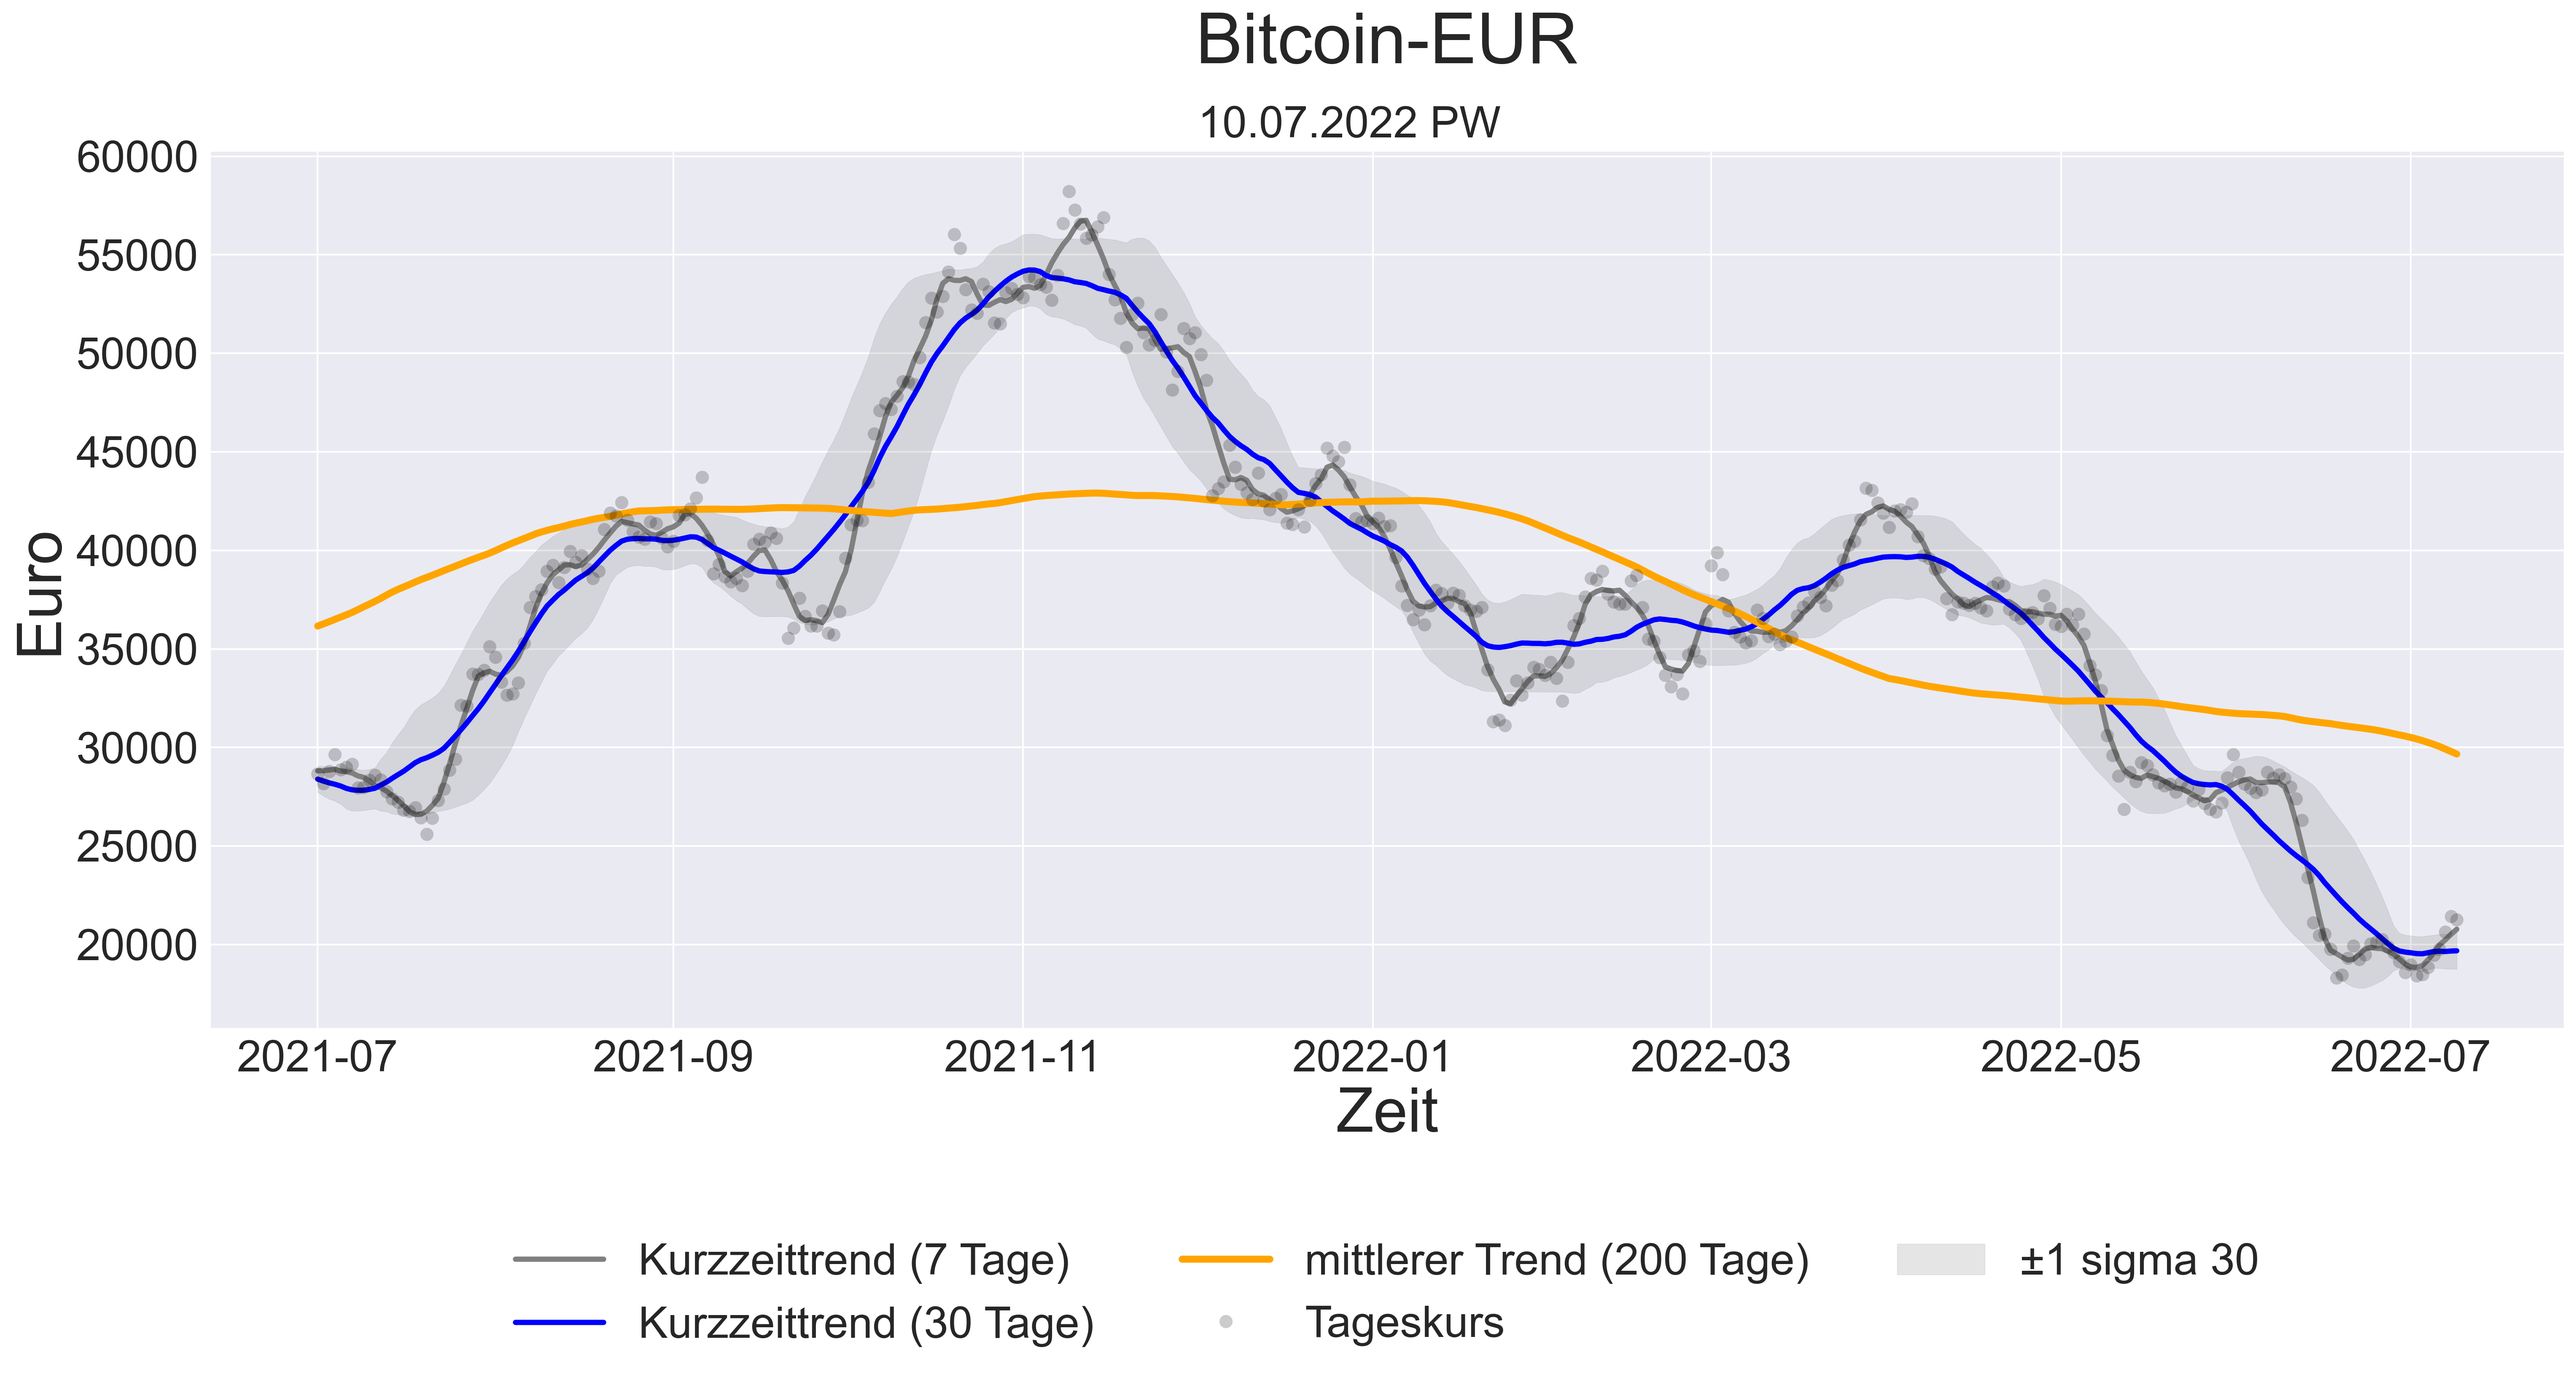
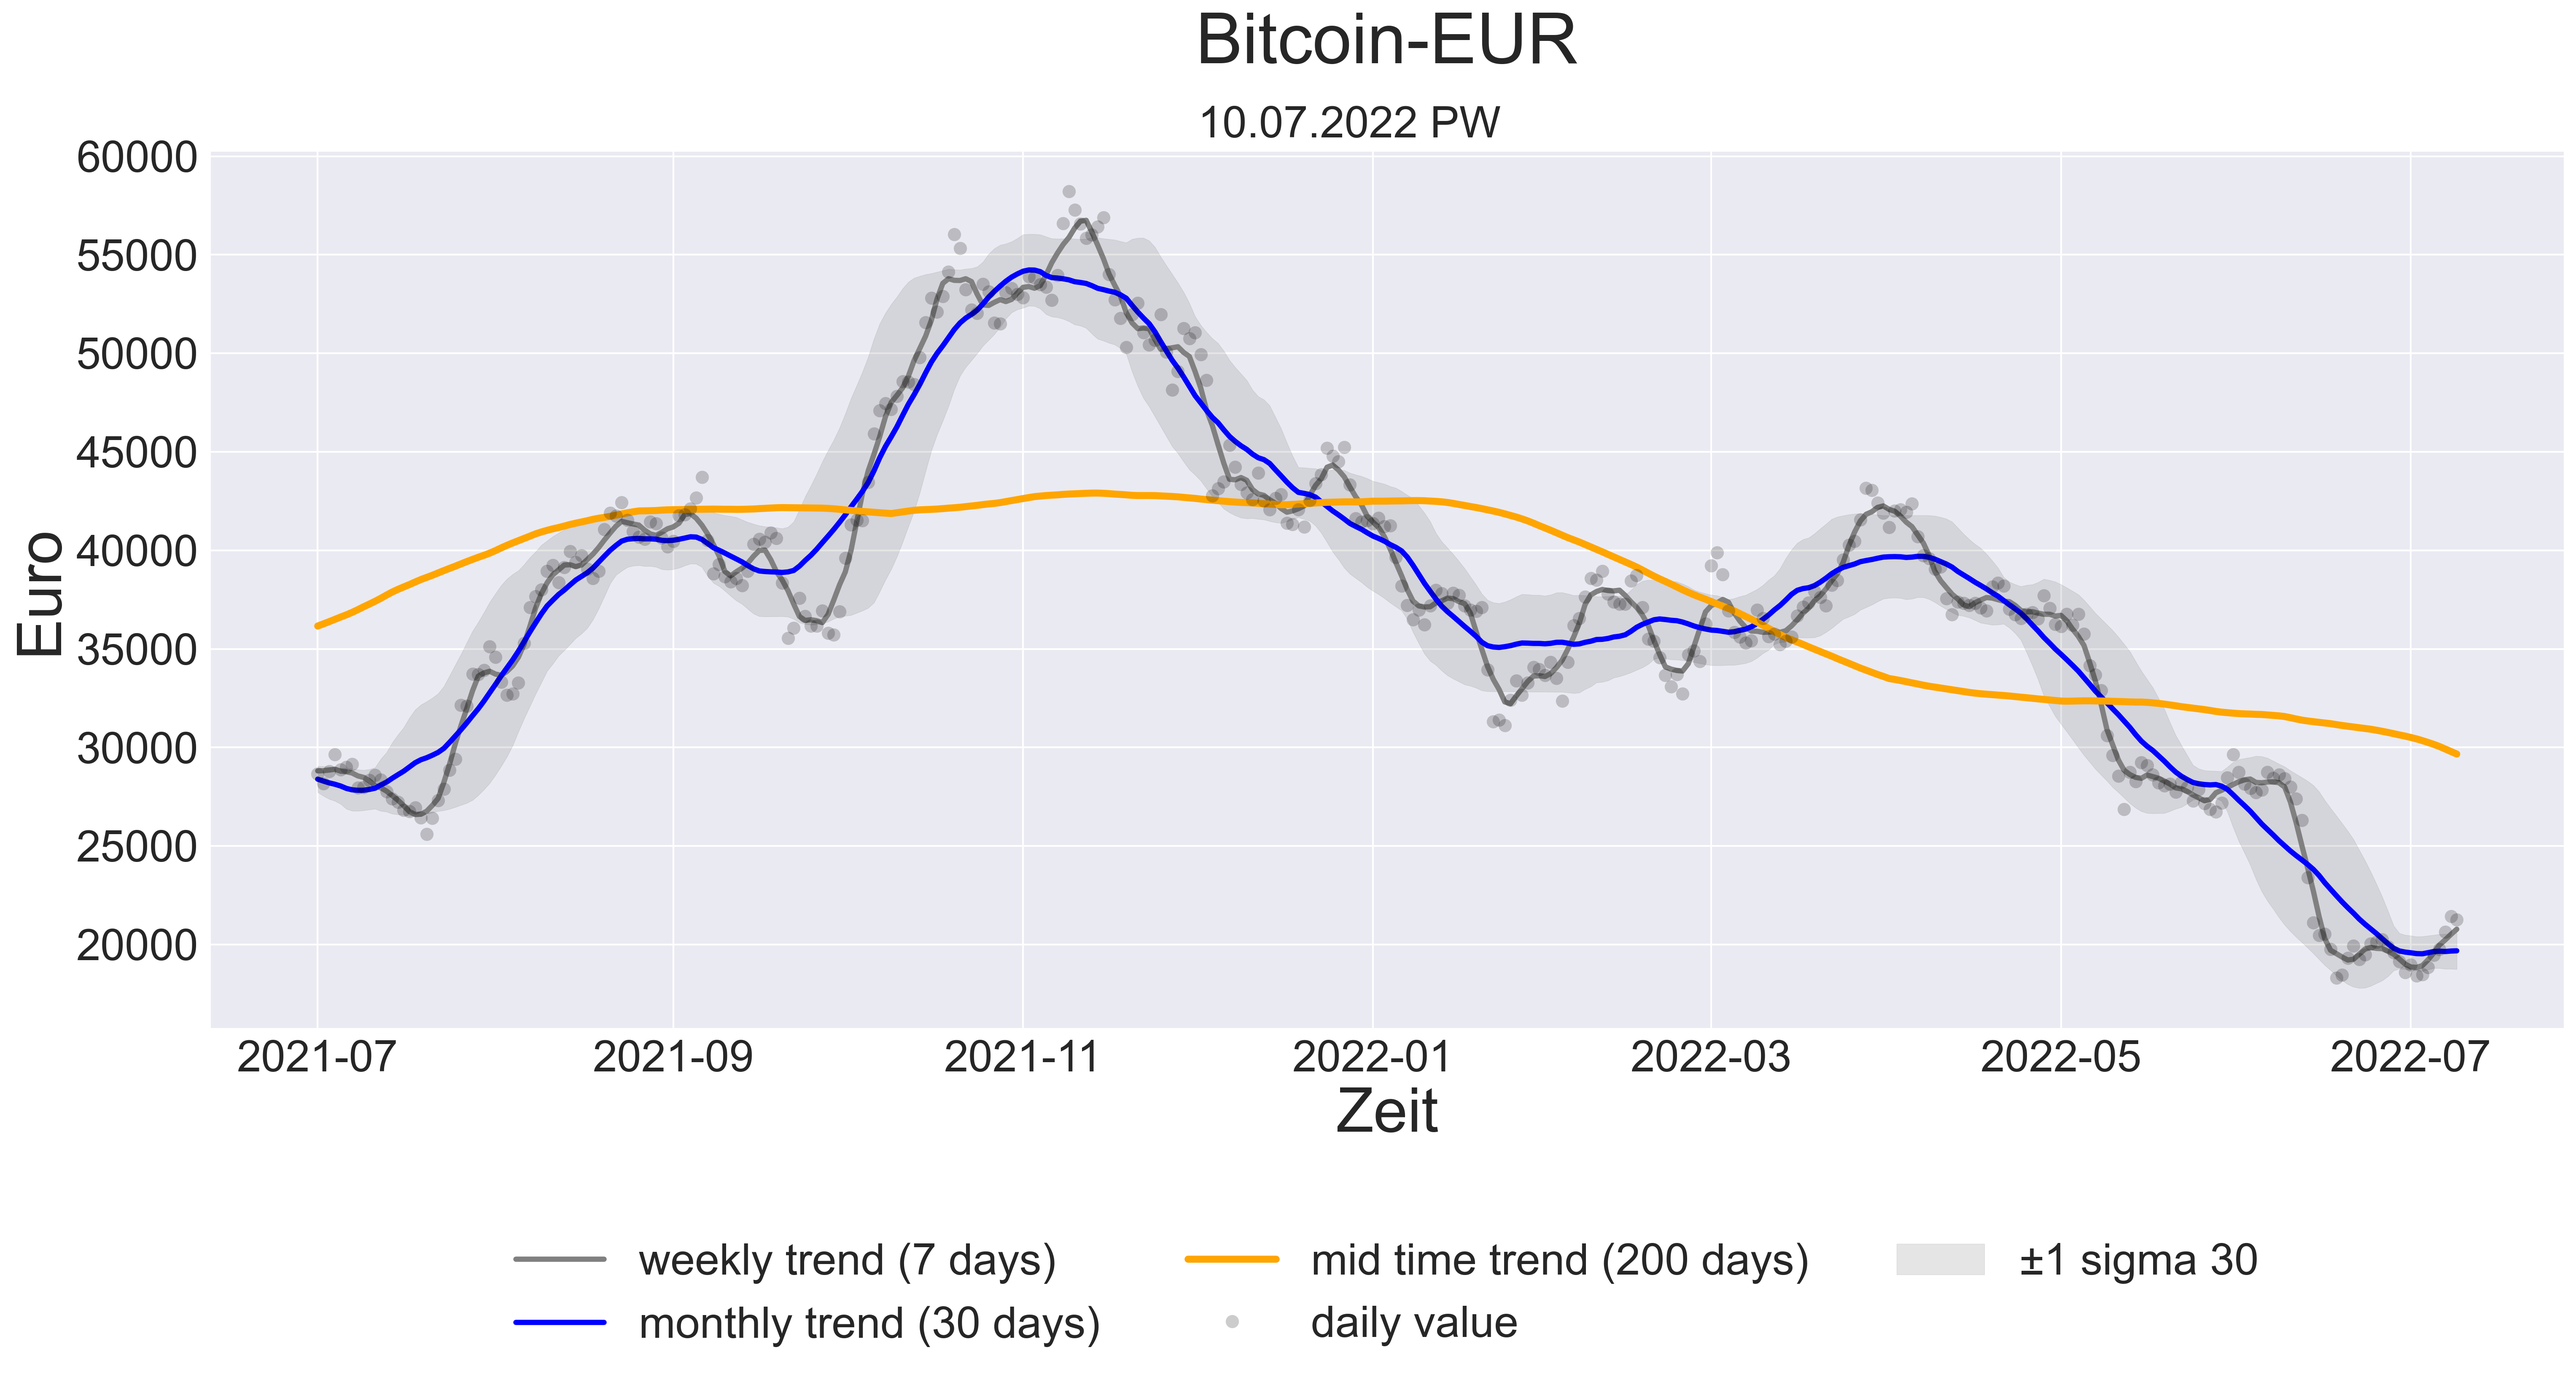
u

Changed region(s): [[0.2488, 0.9054, 0.4354, 0.9679], [0.4976, 0.9054, 0.6842, 0.9679]]

diff --git a/diagramme.py b/diagramme.py
@@ -10,22 +10,22 @@ def diagramme(df, rolling_window0, rolling_window1, rolling_window2, rolling_win
     # Wochentrend
     if bool_WochenTrend == True:
         plt.plot(df["Date"], df["Kurs_mean_0"], marker='', linestyle='-', alpha = 1,
-            color="grey", linewidth=3, label = f'Kurzzeittrend ({rolling_window0} Tage)', markersize=10)
+            color="grey", linewidth=3, label = f'weekly trend ({rolling_window0} days)', markersize=10)
 
     # Kurzzeittrend
     if bool_KurzzeitTrend == True:
         plt.plot(df["Date"], df["Kurs_mean_1"], marker='', linestyle='-', alpha = 1,
-            color="blue", linewidth=3, label = f'Kurzzeittrend ({rolling_window1} Tage)', markersize=10)
+            color="blue", linewidth=3, label = f'monthly trend ({rolling_window1} days)', markersize=10)
 
     # mittlerer Trend
     if bool_MittelTrend == True:
         plt.plot(df["Date"], df["Kurs_mean_2"], marker='', linestyle='-', alpha = 1,
-            color="orange", linewidth=4, label = f'mittlerer Trend ({rolling_window2} Tage)', markersize=10)
+            color="orange", linewidth=4, label = f'mid time trend ({rolling_window2} days)', markersize=10)
     
     # Langzeit Trend
     if bool_LangzeitTrend == True:
         plt.plot(df["Date"], df["Kurs_mean_3"], marker='', linestyle='-', alpha = 1,
-            color="black", linewidth=5, label = f'Langzeittrend ({rolling_window3} Tage)', markersize=10)
+            color="black", linewidth=5, label = f'long time trend ({rolling_window3} days)', markersize=10)
 
     # # std+
     # plt.plot(df["Date"], df["Kurs_std+"], marker='', linestyle='--', alpha = 0.3,
@@ -46,7 +46,7 @@ def diagramme(df, rolling_window0, rolling_window1, rolling_window2, rolling_win
     #     label=f'negativer Kurzzeittrend', interpolate=True, where=(df["Kurs_mean_1"] < df["Kurs_mean_2"]))
 
     plt.plot(df["Date"], df["Kurs"], marker='.', linestyle='', alpha=0.2,
-        color="black", linewidth=3, label = "Tageskurs", markersize=15)
+        color="black", linewidth=3, label = "daily value", markersize=15)
 
     plt.legend(loc='upper center',
         bbox_to_anchor=(0.5, -0.2),
